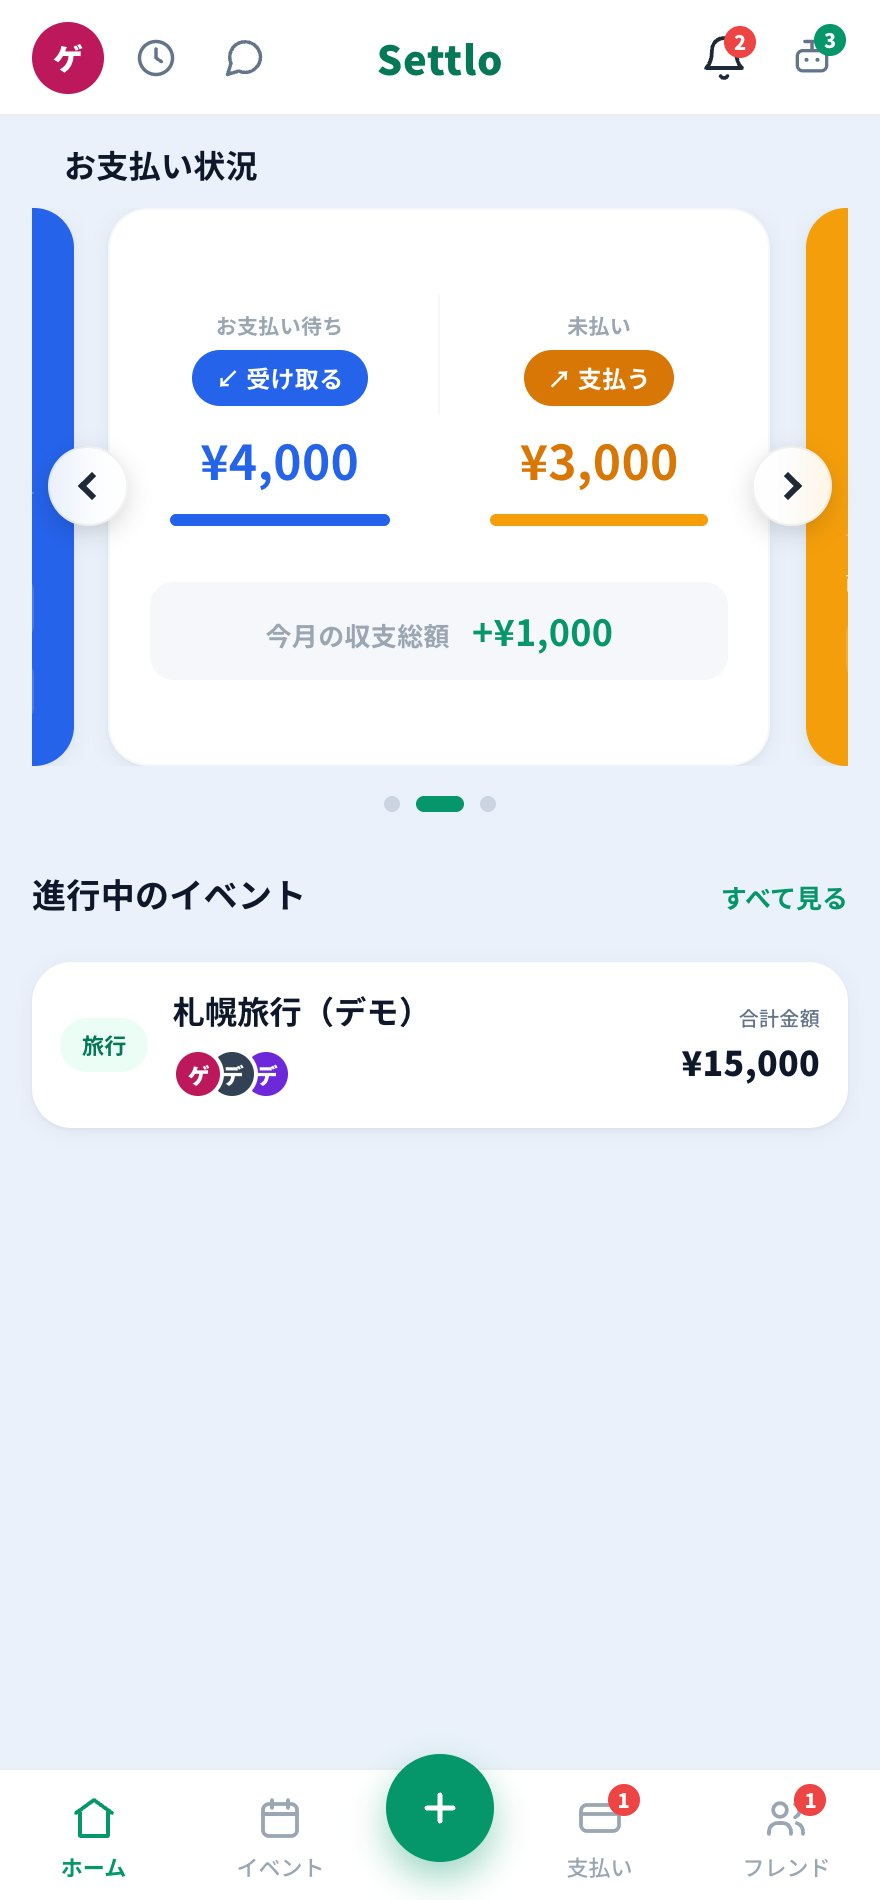
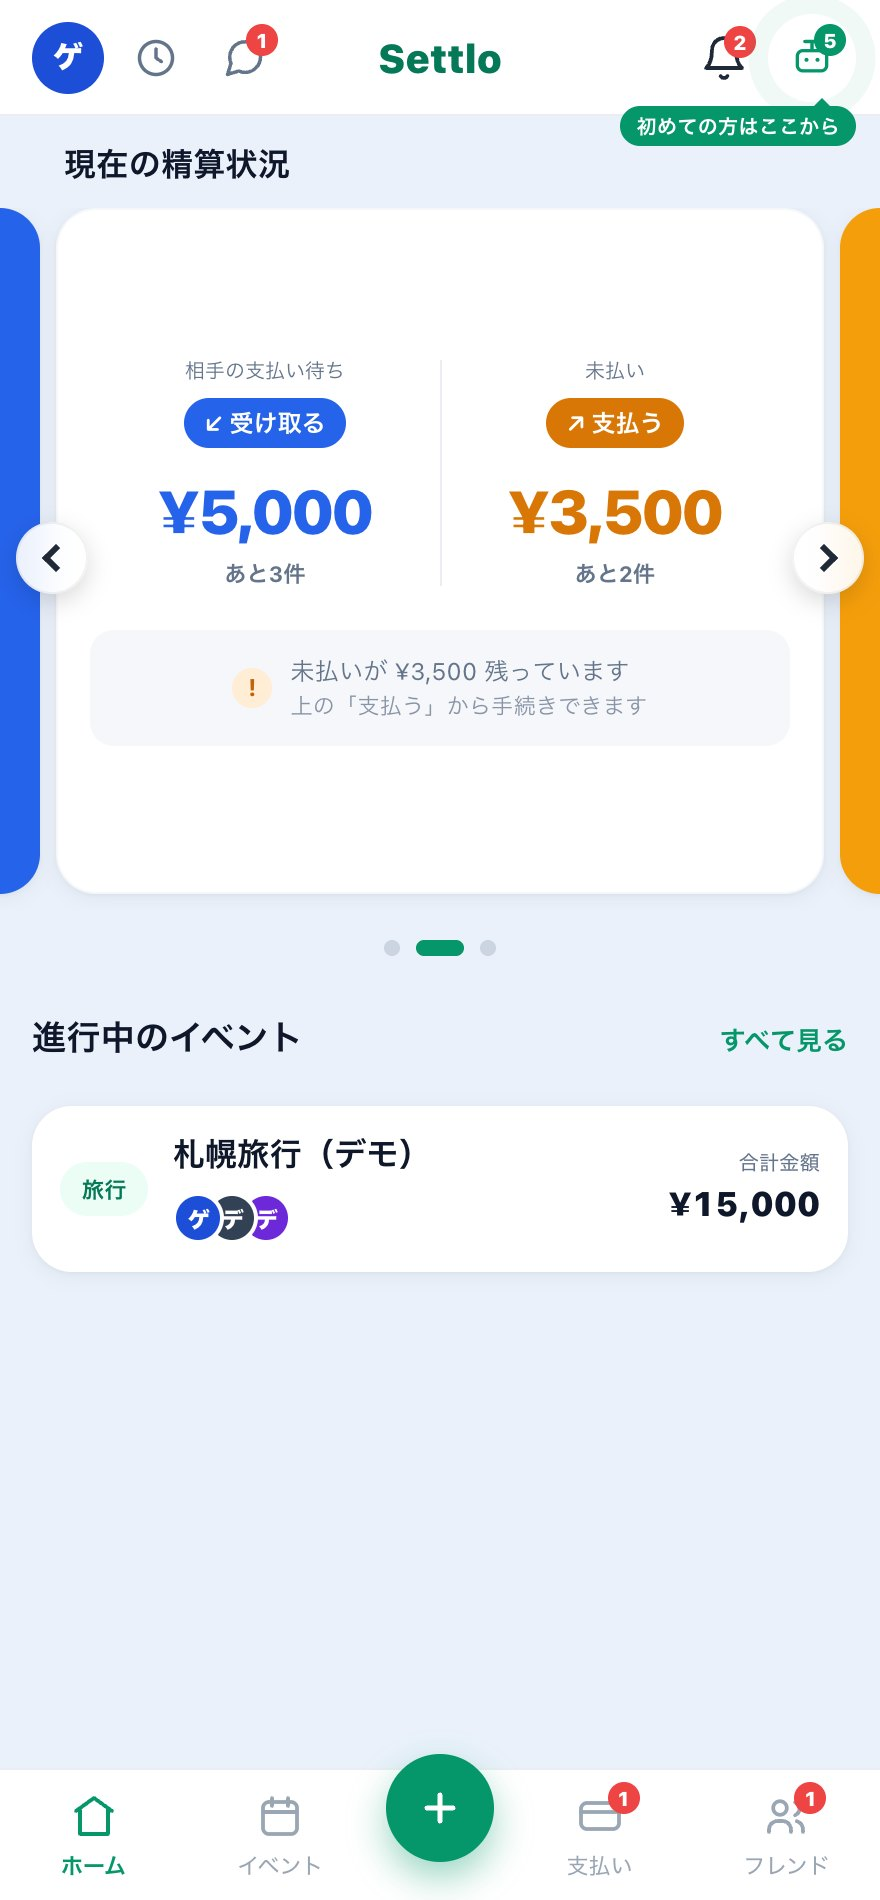
update: Settloを技育博出展後の最新版に更新（機能と設計の説明・画面写真・担当の記述・受賞名を企業協賛賞に統一）、好きなものに≒JOYを追加、縦長スクショの表示とライトボックスの表記を調整

diff --git a/src/data/works.ts b/src/data/works.ts
@@ -35,7 +35,7 @@ export interface Work {
   stageVideos?: { label: string; src: string }[]; // ステージ別の短い動画（3カラム表示。任意）
   gallery?: string[];     // 複数画像（ライトボックスで拡大閲覧。スライド資料・スクショ等）
   audio?: { title: string; src: string; note?: string }[]; // 試聴用の音源（モーダルにプレイヤー表示）
-  slideGroups?: { title: string; images: string[] }[];     // 発表/種類ごとに分けた横スクロールのスライド群
+  slideGroups?: { title: string; images: string[]; portrait?: boolean }[];  // 発表/種類ごとに分けた横スクロールのスライド群（portrait:true＝スマホの縦長スクショ用の縦枠）
   featured?: boolean;     // トップのBentoで大きく見せる
   link?: string;          // 外部/別サイトへのリンク（Web作品など）
   links?: { label: string; href: string }[]; // 掲載メディア等の外部リンク（複数・任意）
@@ -365,19 +365,19 @@ export const works: Work[] = [
     slug: "settlo",
     title: "Settlo（セトロ）― レシートAI割り勘アプリ",
     category: "web",
-    summary: "レシートを撮るだけで、旅行や飲み会の割り勘から精算までを完結できるアプリ。サークル内ハッカソン「SysHack（シスハック）」での制作をきっかけに5人チームで開発を継続し、学生団体経由で企業賞も受賞。技育博2026にもエントリーしている。",
+    summary: "レシートを撮るだけで、旅行や飲み会の割り勘から精算までを完結できるアプリ。サークル内ハッカソン「SysHack（シスハック）」での制作をきっかけに5人で開発を始め、展示準備は3人体制で進めた。同ハッカソンでは企業協賛賞を受賞。技育博2026 Vol.2（2026年9月・虎ノ門ヒルズ）に出展した。",
     goal: "旅行や飲み会での立て替えは、あとから“誰がいくら払うか”を計算するのが面倒で、精算がうやむやになりがち。その“お金のモヤモヤ”をゼロにするのが狙い。レシートを撮るだけで記録が終わり、誰でも迷わず割り勘から精算まで完了できる——そんな体験をめざした。",
-    approach: "5人チームでの開発で、自分はUI・フロントエンドを中心に、レシートのAI読み取りなどのバックエンドや発表・登壇も担当した。ホームを開くと、受け取る額・支払う額・今月の収支がひと目でわかる。主な機能は、①レシートを撮ると Gemini（2.5 Flash）のOCRが店名・金額・消費税まで自動入力（手入力にも対応）、②全員で均等・金額を指定・商品ごとに支払う人を選ぶ、の3方式の割り勘、③食事・カフェ・交通などをアイコンで分類、④招待コードや「＋招待」でのイベント・参加者管理と、誰が誰にいくら払うかが残り件数つきで見える精算サマリー、⑤相手ごとに全イベントの貸し借りを相殺して、送金の回数を最小にまとめる「まとめて精算」、⑥PayPayリンクでの請求と「支払いを催促する」通知。現金でやり取りした時は「受け取った／支払った」を相手が承認して完了する二段階の精算、⑦承認待ちを自分側・相手側・履歴に分けて確認できる一覧、⑧「〇〇の支払いの件」単位で会話できるチャット、⑨フレンド申請・承認と、友達ごとの貸し借りのまとめ、⑩支払い・受け取り・精算済みで絞り込めるお支払い履歴。さらに、“次にやること”を金額つきで教える「お支払いアシスタント」、削除したイベントや取引を7日間だけ預かって戻せるゴミ箱、実際のデモ画面で1手ずつ説明するヘルプ（画面ごとの解説と画面遷移マップ、順に案内する使い方ツアー）、登録なしで試せるゲストデモ、ホーム画面に入れて使える PWA 対応まで用意した。技術は Vue 3（script setup）＋Vite、ルーティングは Vue Router、バックエンドは Firebase（Authentication／Firestore／Cloud Functions／Hosting／FCM）で、精算ロジックは composable に切り出し、APIキーはサーバーレス関数側に置いてフロントには出さない。スマホのスワイプUIとPCレスポンシブに両対応している。",
-    tools: ["Vue 3 / Vite", "Firebase", "Gemini 2.5 Flash（OCR）", "PWA"],
+    approach: "5人で開発を始め、展示は3人体制。自分はイベント詳細・精算ロジックとデータ設計、レシートのAI読み取りを担当し、UI・ホーム画面やフレンド機能はチームで分担した。ホームには、いま受け取る額・支払う額が残り件数つきで並び、相手の返事待ちは別枠。主な機能は、①レシートを撮ると Gemini（2.5 Flash）が店名・金額・消費税・品目まで自動入力し、1回に5枚までまとめて読み取れる（手入力にも対応）、②全員で均等・金額を指定・商品ごとに支払う人を選ぶ、の3方式の割り勘、③食事・カフェ・コンビニ・交通などをアイコンで分ける支払いジャンル、④招待コードや「＋招待」でのイベント・参加者管理と、未精算の残り・完了率が見える精算の進捗表示、⑤送金の回数が最小で、できるだけ100円単位で割り切れる金額になる「まとめて精算」2種類（イベント参加者全員を一度に相殺／相手ごとに全イベントをまたいで相殺）、⑥フレンド申請・承認と、フレンド詳細から相手ごとの貸し借り・取引履歴をまとめて確認・精算できるフレンド機能、⑦PayPayリンクでの請求と催促通知、現金は「受け取った／支払った」を相手が承認して完了する二段階の精算、⑧承認リクエスト・催促・拒否を一言メッセージつきでアプリ内＋プッシュに届ける通知と、承認する分・相手待ち・履歴を分けた承認待ちビュー、⑨「〇〇の支払いの件」単位で相談できるチャット（既読・未読つき）と、会話を読んで返信案を3つ出す「AIと返信を考える」（PayPayが使える・いつまでに払うなどの条件に沿わせられる。AIには名前を渡さず仮のラベルに置き換える）、⑩相手が「受け取っていない」と戻した差し戻しを普通の未払いと分けて表示、⑪支払い・受け取り・精算済みで絞り込めるお支払い履歴と、削除した取引やイベントを7日だけ預かる「元に戻す」。ほかに、次の一手を金額つきで教えるお支払いアシスタント、ボタンを1つずつ光らせて案内する「初めての方へ」、登録なしのゲストデモ、PWA も用意した。技術は Vue 3（script setup）＋Vite、Vue Router（ハッシュルーティング）、バックエンドは Firebase（Authentication／Firestore／Cloud Functions／Hosting／FCM）。設計面では、金額の正データは取引1本に決めて二重に持たず、お金を確定させる処理はサーバー側だけに置き、精算に予約された取引は編集も削除もできないようにした。計算は画面から切り離した純粋関数にし、テストで金額と状態遷移を固定。レシートの読み取りと返信案の生成は Cloud Functions 側に置いた。",
+    tools: ["Vue 3 / Vite", "Firebase（Firestore / Cloud Functions / FCM）", "Gemini 2.5 Flash（レシート読み取り・返信案）", "PWA"],
     thumb: "/assets/works/settlo-event.jpg",
     contain: true,
-    status: "ハッカソン企業賞・開発中",
+    status: "ハッカソン企業協賛賞・技育博2026出展",
     link: "https://settlo-app.web.app",
     slideGroups: [
-      { title: "記録する・まとめて精算する（ゲストデモの実画面）", images: ["/assets/works/settlo-home.jpg", "/assets/works/settlo-event.jpg", "/assets/works/settlo-pay.jpg"] },
-      { title: "迷わせない仕組み（アシスタント・お知らせ・使い方ガイド・フレンド）", images: ["/assets/works/settlo-assistant.jpg", "/assets/works/settlo-notif.jpg", "/assets/works/settlo-guide.jpg", "/assets/works/settlo-friend.jpg"] },
+      { title: "記録する・まとめて精算する（ゲストデモの実画面）", images: ["/assets/works/settlo-home.jpg", "/assets/works/settlo-event.jpg", "/assets/works/settlo-pay.jpg"], portrait: true },
+      { title: "迷わせない仕組み（アシスタント・お知らせ・使い方ガイド・フレンド）", images: ["/assets/works/settlo-assistant.jpg", "/assets/works/settlo-notif.jpg", "/assets/works/settlo-guide.jpg", "/assets/works/settlo-friend.jpg"], portrait: true },
+      { title: "相談する・AIと返信を考える（支払いの件ごとのチャット／AIが会話を読んで出した返信案）", images: ["/assets/works/settlo-chat.jpg", "/assets/works/settlo-ai.jpg"], portrait: true },
     ],
-
   },
   {
     slug: "nogi-photo",

diff --git a/開発メモ.md b/開発メモ.md
@@ -66,7 +66,7 @@
 - **グラフィック／ロゴ** — 動物ロゴ、自作ロゴ、名刺、ポスター各種、学科マスコット 等
 - **CG／映像** — C++ によるCG作品、Maya モデリング、映像演出
 - **画像処理** — Python＋OpenCV（研究室の専門に直結）
-- **Web** — このポートフォリオ＋推しサイト
+- **Web／アプリ** — 割り勘アプリ Settlo（ハッカソン企業協賛賞・技育博2026 Vol.2 出展）、生写真コレクション管理アプリほか、このポートフォリオ・推しサイト・売り子応援サイトなど複数制作
 
 **▼ 特に見てほしい作品と、その理由（自分の言葉で）**
 -
